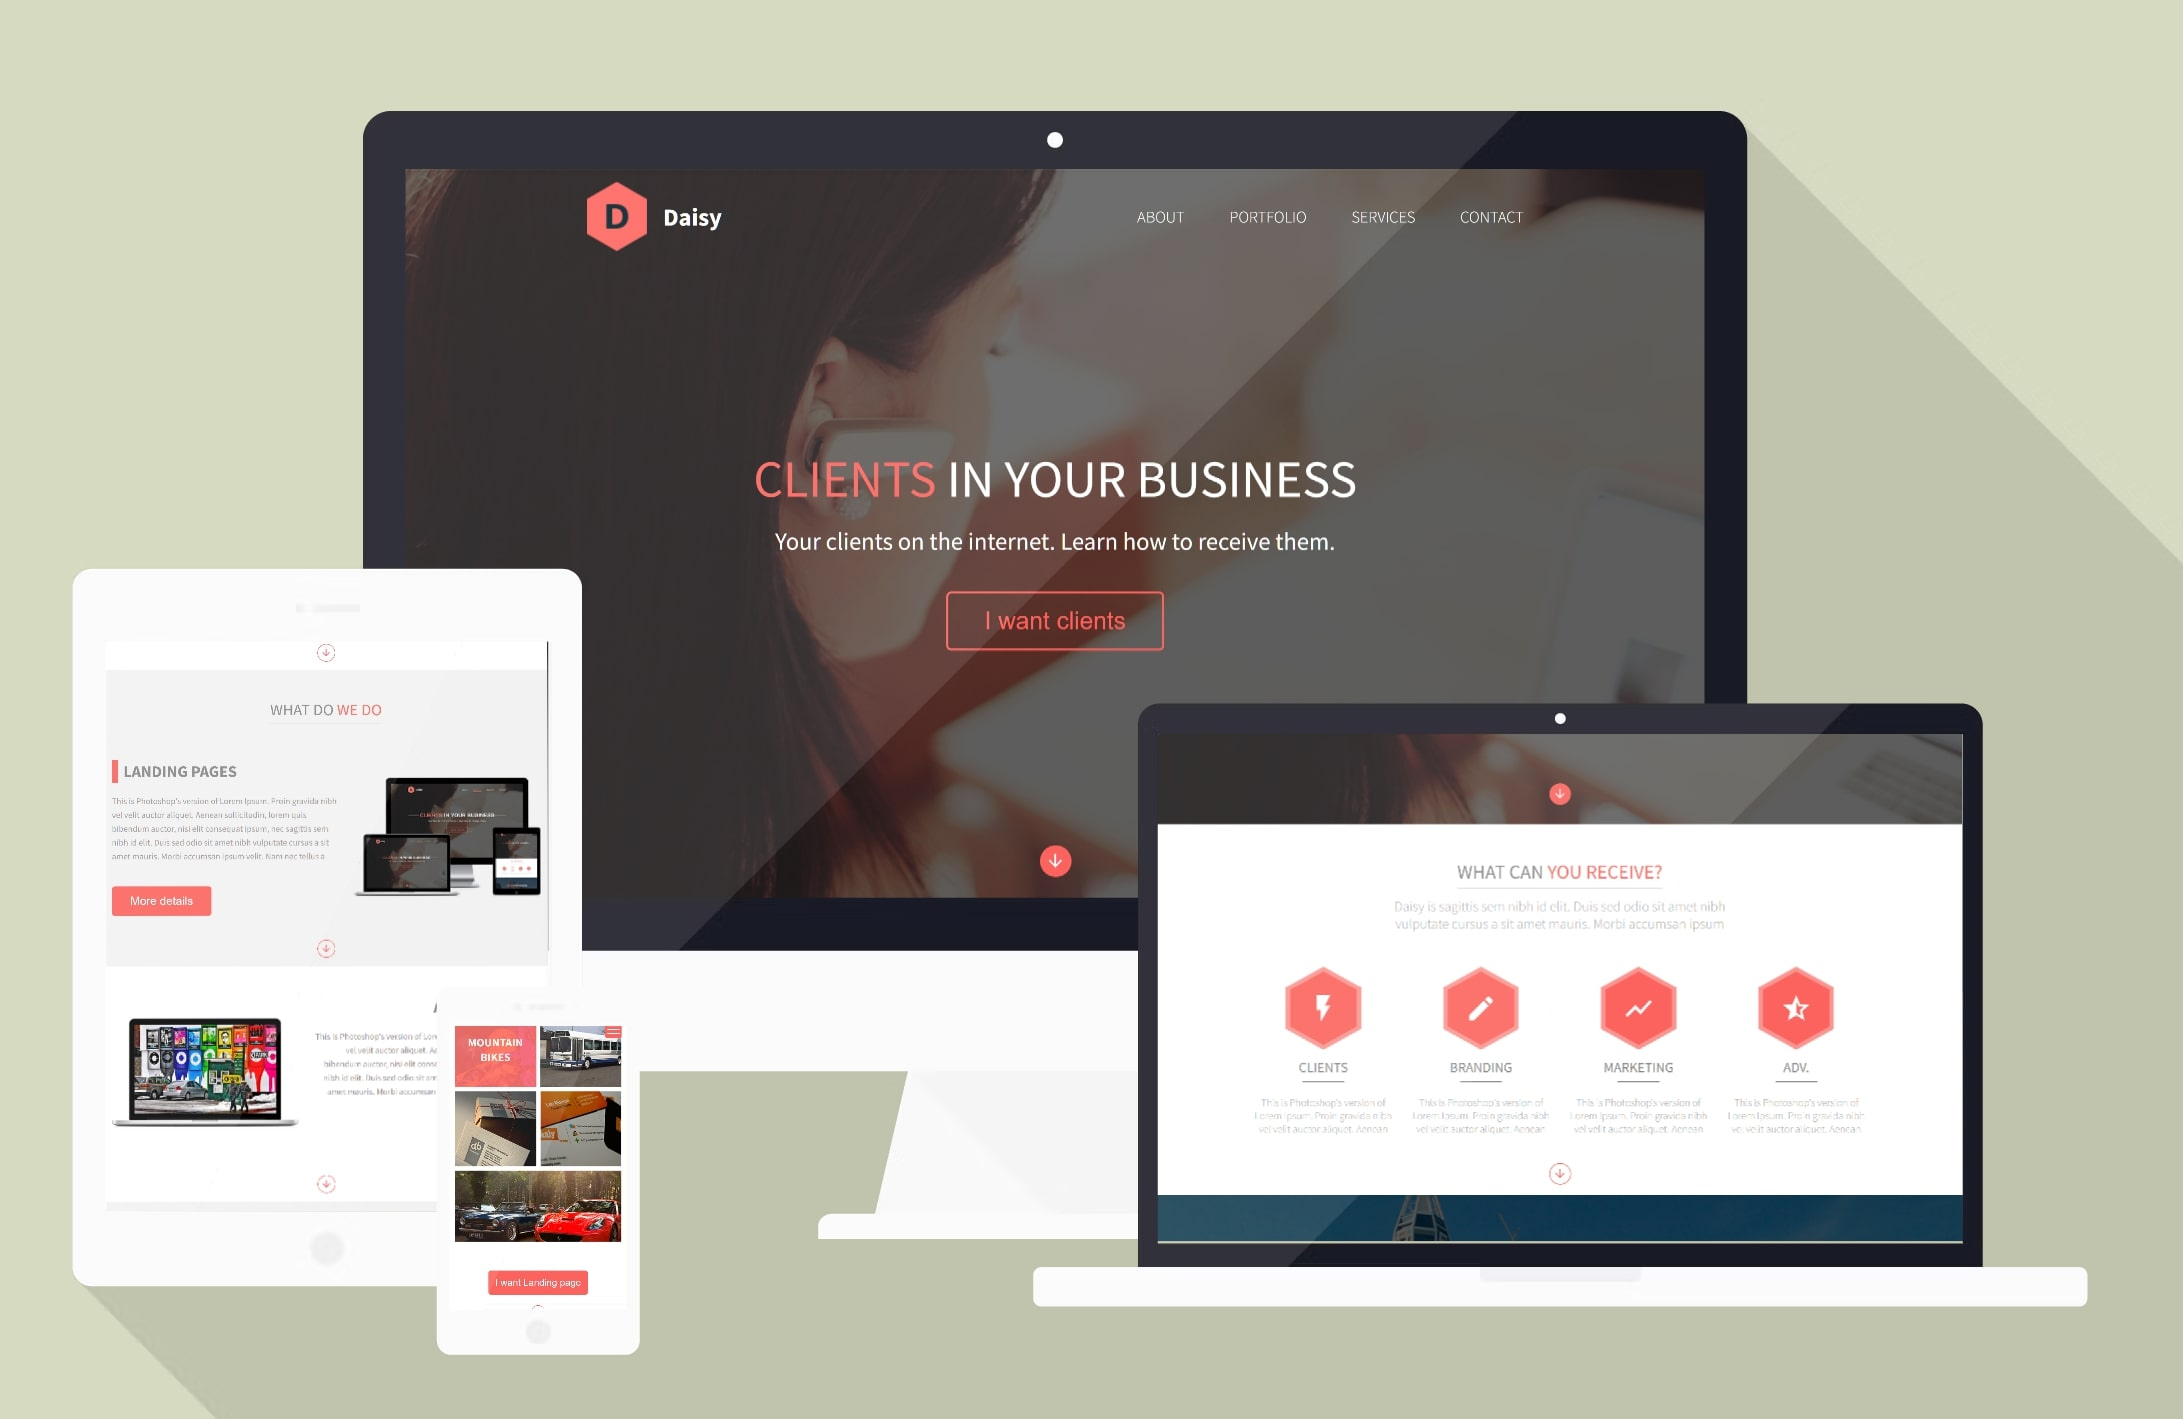
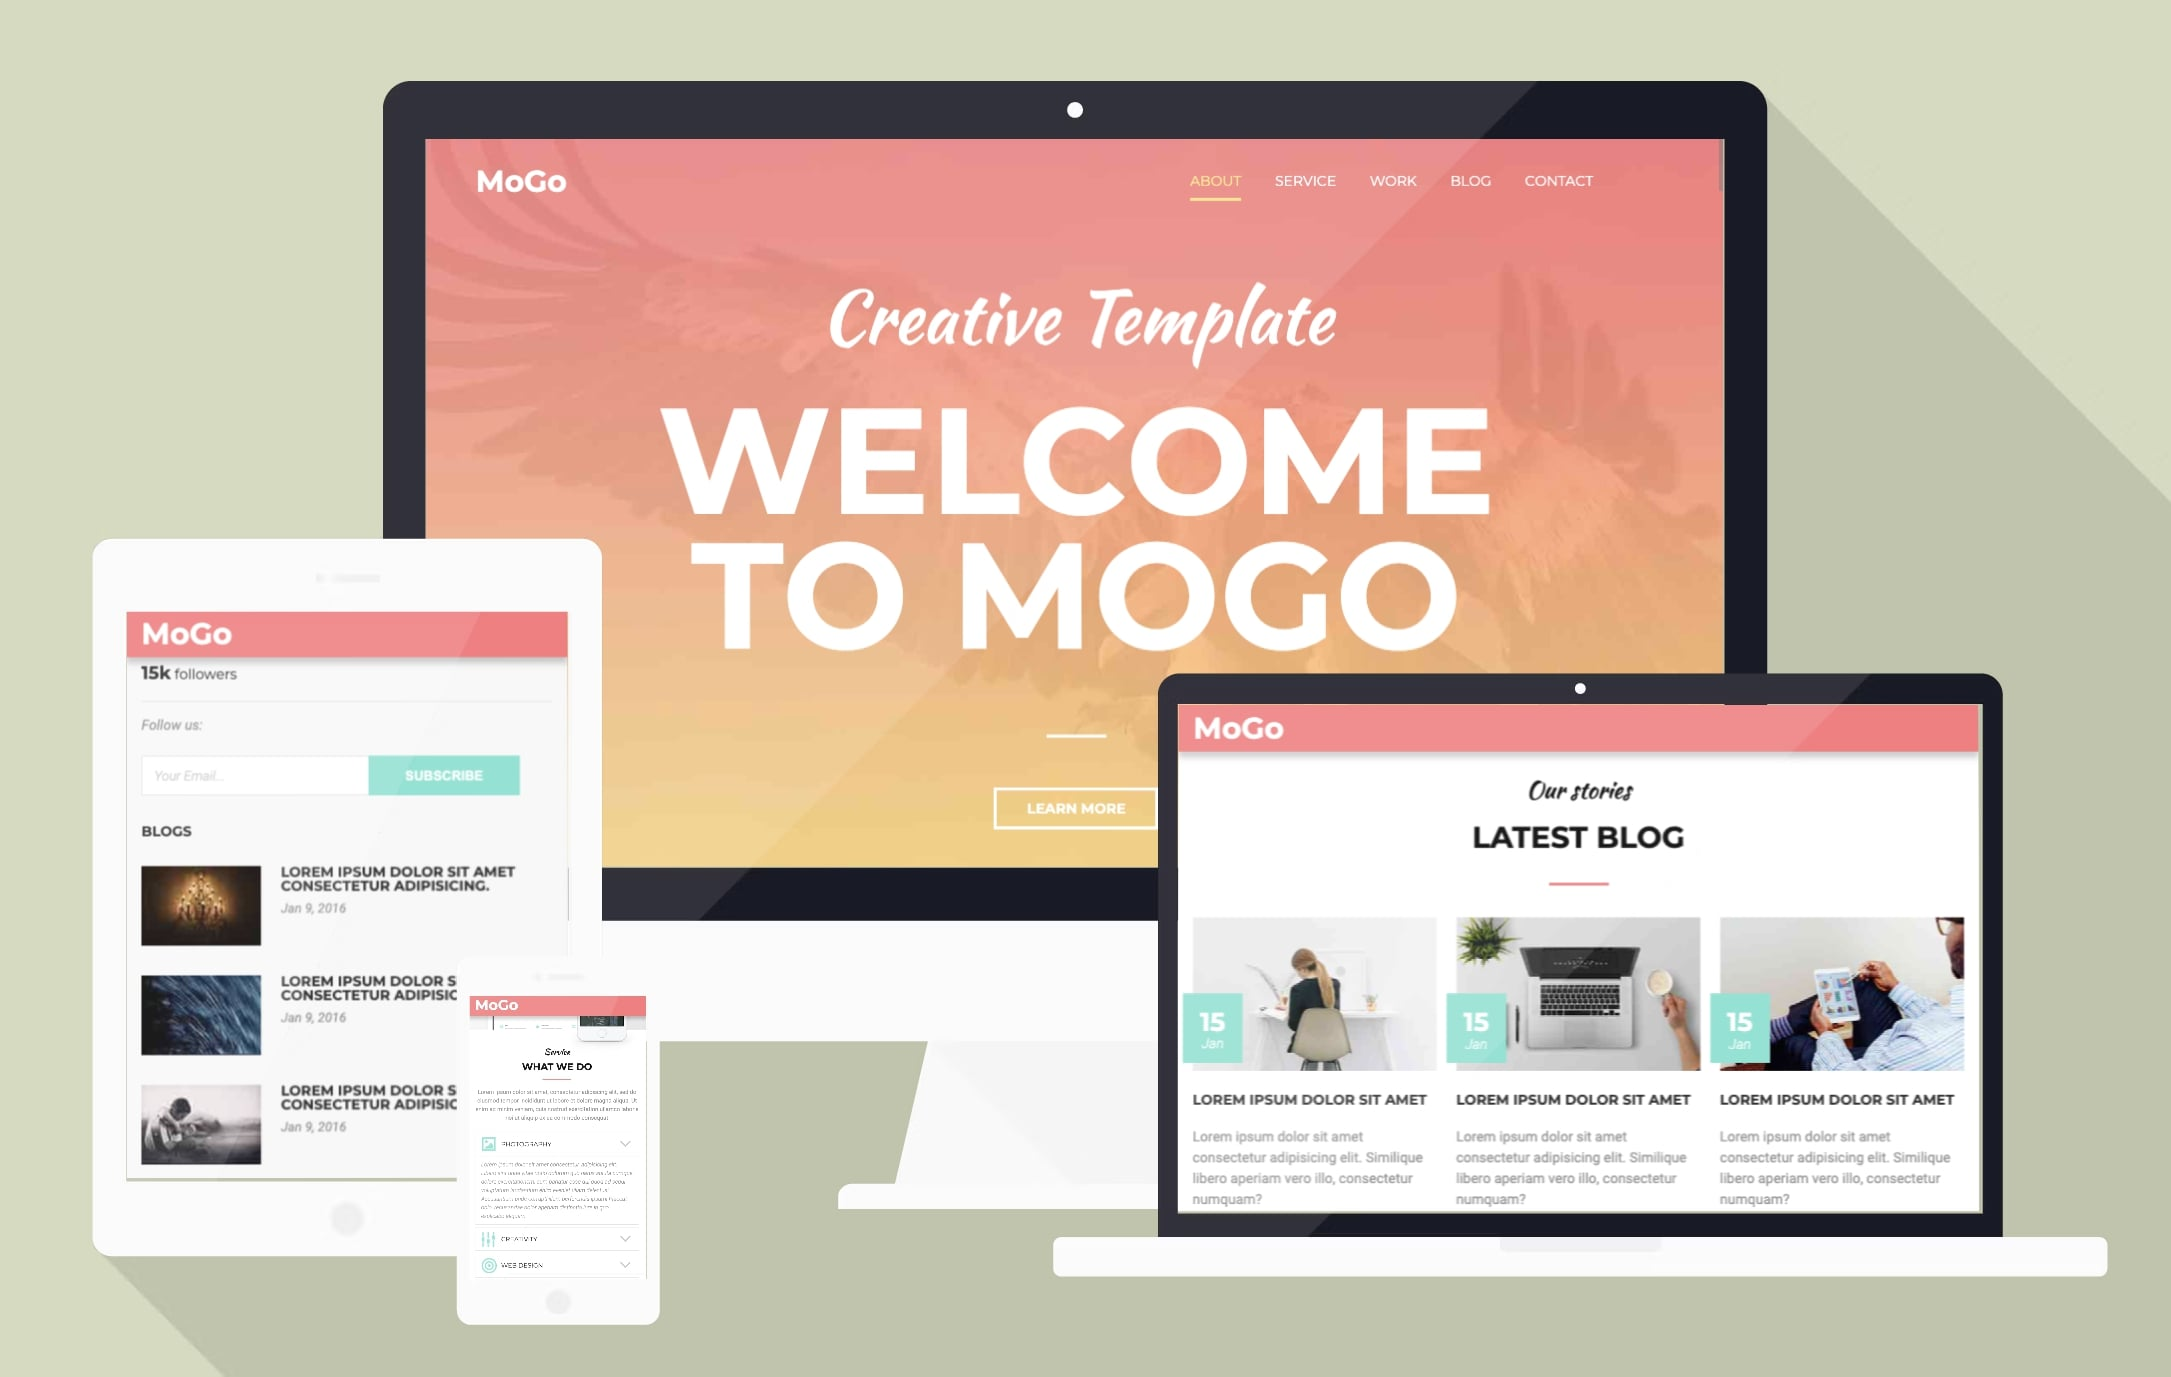
edit readme

diff --git a/.github/README.md b/.github/README.md
@@ -1,15 +1,17 @@
-# Daisy Landing Page
+# Mogo Landing Page
 
 lang [RU][home_ru] | [EN][home_en]
 
 ## 🚀 Технологии
 
-- HTML x [SCSS][link0]
+- HTML x CSS
+- DOM API by [jQuery][link0]
 - [Yandex BEM][link1]
+- [FontAwesome][link2]
 
 ## 📋 Описание
 
-Этот репозиторий содержит адаптивную верстку лендинговой страницы для дизайнерской студии. [**Онлайн просмотр**][preview]
+Этот репозиторий содержит адаптивную верстку лендинговой страницы для креативного агенства Mogo. [**Онлайн просмотр**][preview]
 
 ![asset0]
 
@@ -25,18 +27,17 @@ lang [RU][home_ru] | [EN][home_en]
 ## 📂 Структура проекта
 
 ```plaintext
-css/
-  styles.css
-  styles.scss
-img/
-  logo.svg
+imges/**/*.jpg
 index.html
+styles.css
+app.js
 ```
 
 ## 📝 TODO
 
 - [x] Завершить адаптивную верстку
-- [x] Использовать методологию БЭМ в связке с SCSS
+- [x] Использовать методологию БЭМ
+- [x] Использовать jQuery для глобального меню через DOM API
 
 > [!TIP]
 > [Markdown UI kit][md_ui_kit] for README.md
@@ -50,11 +51,11 @@ index.html
 [home_ru]: README.md
 [home_en]: README.en.md
 [license]: /LICENSE
-[preview]: https://etherealhero.github.io/daisy_landing/
+[preview]: https://etherealhero.github.io/mogo_landing/
 [md_ui_kit]: https://gist.github.com/etherealHero/ffe9de043f3c2639e864b4fddec8e9e4
-[link0]: https://sass-scss.ru/
+[link0]: https://jquery.com/
 [link1]: https://ru.bem.info/
-[link2]: #
+[link2]: https://fontawesome.com/
 [link3]: #
 [link4]: #
 [link5]: #

diff --git a/.github/README.en.md b/.github/README.en.md
@@ -1,15 +1,17 @@
-# Daisy Landing Page
+# Mogo Landing Page
 
 lang [RU][home_ru] | [EN][home_en]
 
 ## 🚀 Technologies
 
-- HTML x [SCSS][link0]
+- HTML x CSS
+- DOM API by [jQuery][link0]
 - [Yandex BEM][link1]
+- [FontAwesome][link2]
 
 ## 📋 Description
 
-This repository contains an adaptive layout of a landing page for a design studio. [**Demo online**][preview]
+This repository contains an adaptive layout of a landing page for a Mogo design studio. [**Demo online**][preview]
 
 ![asset0]
 
@@ -25,18 +27,17 @@ The main file to launch the application is `index.html`, located in the project'
 ## 📂 Project Structure
 
 ```plaintext
-css/
-  styles.css
-  styles.scss
-img/
-  logo.svg
+imges/**/*.jpg
 index.html
+styles.css
+app.js
 ```
 
 ## 📝 TODO
 
 - [x] Complete adaptive layout
-- [x] Use BEM methodology with SCSS
+- [x] Use BEM methodology
+- [x] Use jQuery for global menu via DOM API
 
 > [!TIP]
 > [Markdown UI kit][md_ui_kit] for README.md
@@ -50,11 +51,11 @@ This project is licensed under the MIT License. See [LICENSE](/LICENSE) for deta
 [home_ru]: README.md
 [home_en]: README.en.md
 [license]: /LICENSE
-[preview]: https://etherealhero.github.io/daisy_landing/
+[preview]: https://etherealhero.github.io/mogo_landing/
 [md_ui_kit]: https://gist.github.com/etherealHero/ffe9de043f3c2639e864b4fddec8e9e4
-[link0]: https://sass-scss.ru/
+[link0]: https://jquery.com/
 [link1]: https://ru.bem.info/
-[link2]: #
+[link2]: https://fontawesome.com/
 [link3]: #
 [link4]: #
 [link5]: #
